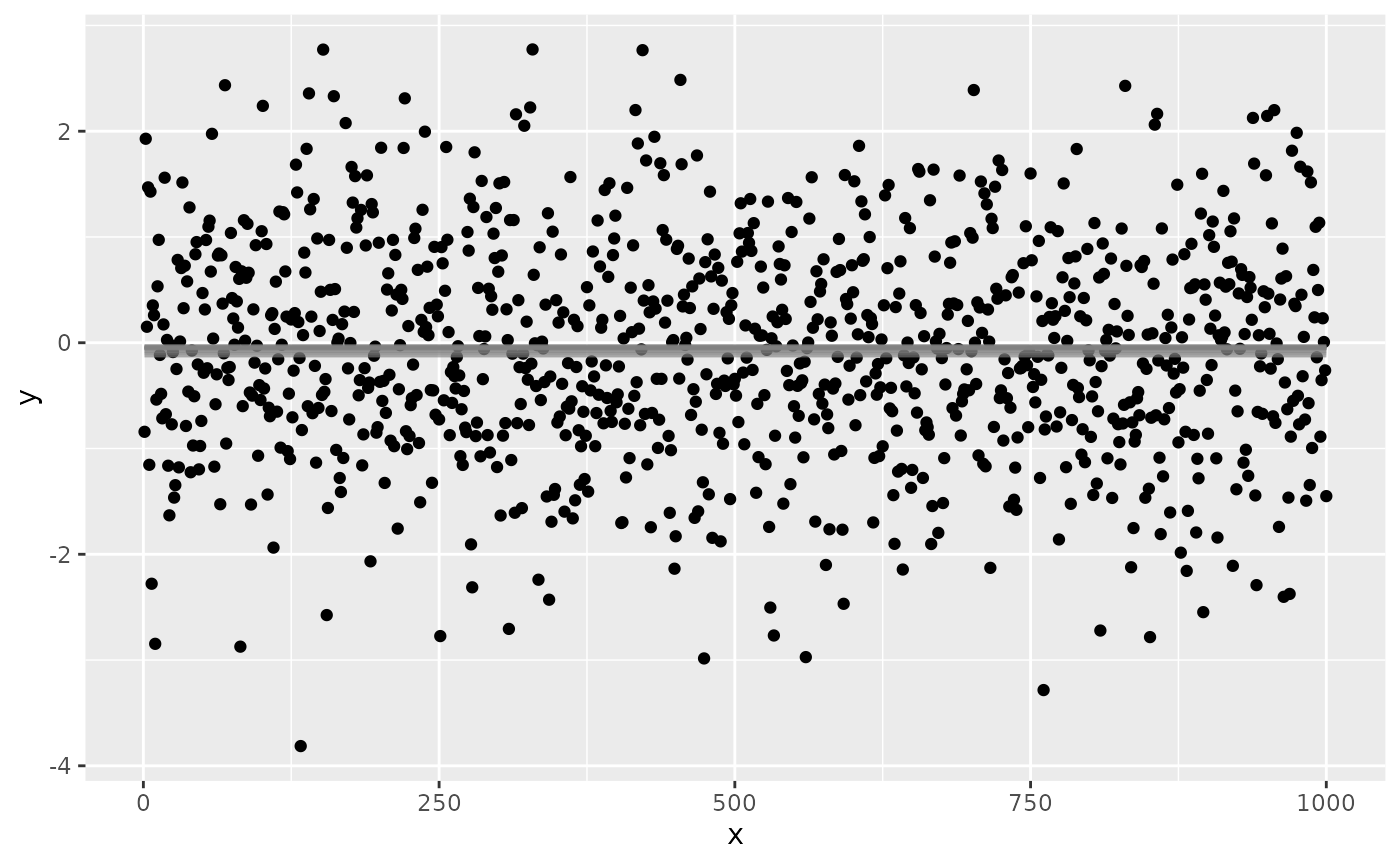
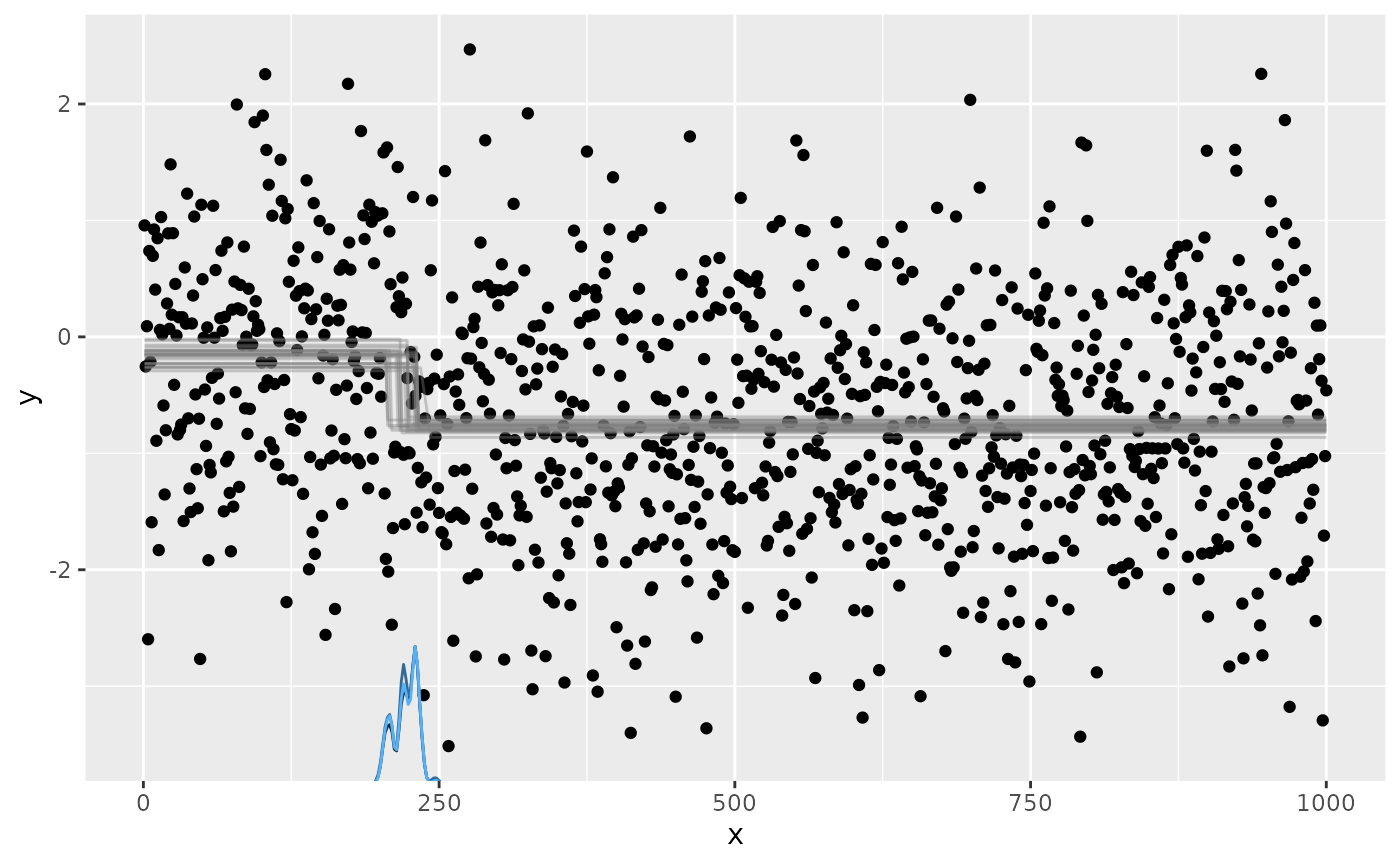
Built site for Rhpc: 0.0.1@

diff --git a/articles/breakpt-ex.html b/articles/breakpt-ex.html
@@ -131,6 +131,8 @@ kbd {
 <code class="sourceCode R"><span class="va">sim</span> <span class="op">=</span> <span class="fu">simulate_data</span><span class="op">(</span>bps<span class="op">=</span><span class="fl">1</span><span class="op">)</span>
 <span class="fu"><a href="https://rdrr.io/r/graphics/plot.default.html" class="external-link">plot</a></span><span class="op">(</span><span class="va">sim</span><span class="op">)</span></code></pre></div>
 <p><img src="breakpt-ex_files/figure-html/unnamed-chunk-5-1.png" width="700"></p>
+<div class="sourceCode" id="cb4"><pre class="downlit sourceCode r">
+<code class="sourceCode R"><span class="co"># dev.off()  # close the device to complete the plot</span></code></pre></div>
 <p>On Sulis, the plot will be saved as <code>Rplots.pdf</code>.</p>
 </div>
 <div class="section level2">
@@ -143,7 +145,7 @@ kbd {
 <li>Three segments, two breakpoints</li>
 </ul>
 <p>When then compare these models in terms of how well they fit the data, and return the model that fits best:</p>
-<div class="sourceCode" id="cb4"><pre class="downlit sourceCode r">
+<div class="sourceCode" id="cb5"><pre class="downlit sourceCode r">
 <code class="sourceCode R"><span class="kw"><a href="https://rdrr.io/r/base/library.html" class="external-link">library</a></span><span class="op">(</span><span class="va"><a href="https://lindeloev.github.io/mcp/" class="external-link">mcp</a></span><span class="op">)</span>
 
 <span class="va">run_mcp</span> <span class="op">=</span> <span class="kw">function</span><span class="op">(</span><span class="va">sim</span><span class="op">)</span> <span class="op">{</span>
@@ -159,7 +161,7 @@ kbd {
     <span class="va">fits</span><span class="op">[[</span><span class="va">best</span><span class="op">]</span><span class="op">]</span>
 <span class="op">}</span></code></pre></div>
 <p>The resulting model should look something like this:</p>
-<div class="sourceCode" id="cb5"><pre class="downlit sourceCode r">
+<div class="sourceCode" id="cb6"><pre class="downlit sourceCode r">
 <code class="sourceCode R"><span class="va">mod</span> <span class="op">=</span> <span class="fu">run_mcp</span><span class="op">(</span><span class="va">sim</span><span class="op">)</span>
 <span class="co">#&gt; Compiling model graph</span>
 <span class="co">#&gt;    Resolving undeclared variables</span>
@@ -170,7 +172,7 @@ kbd {
 <span class="co">#&gt;    Total graph size: 5019</span>
 <span class="co">#&gt; </span>
 <span class="co">#&gt; Initializing model</span>
-<span class="co">#&gt; Finished sampling in 17.7 seconds</span>
+<span class="co">#&gt; Finished sampling in 18.6 seconds</span>
 <span class="co">#&gt; Compiling model graph</span>
 <span class="co">#&gt;    Resolving undeclared variables</span>
 <span class="co">#&gt;    Allocating nodes</span>
@@ -180,7 +182,7 @@ kbd {
 <span class="co">#&gt;    Total graph size: 12020</span>
 <span class="co">#&gt; </span>
 <span class="co">#&gt; Initializing model</span>
-<span class="co">#&gt; Finished sampling in 70.6 seconds</span>
+<span class="co">#&gt; Finished sampling in 77 seconds</span>
 <span class="co">#&gt; Compiling model graph</span>
 <span class="co">#&gt;    Resolving undeclared variables</span>
 <span class="co">#&gt;    Allocating nodes</span>
@@ -190,12 +192,14 @@ kbd {
 <span class="co">#&gt;    Total graph size: 17028</span>
 <span class="co">#&gt; </span>
 <span class="co">#&gt; Initializing model</span>
-<span class="co">#&gt; Finished sampling in 137.6 seconds</span>
+<span class="co">#&gt; Finished sampling in 138.5 seconds</span>
 <span class="co">#&gt; Warning: Some Pareto k diagnostic values are too high. See help('pareto-k-diagnostic') for details.</span>
 
 <span class="co">#&gt; Warning: Some Pareto k diagnostic values are too high. See help('pareto-k-diagnostic') for details.</span>
 <span class="fu"><a href="https://lindeloev.github.io/mcp/reference/plot.mcpfit.html" class="external-link">plot</a></span><span class="op">(</span><span class="va">mod</span><span class="op">)</span></code></pre></div>
 <p><img src="breakpt-ex_files/figure-html/unnamed-chunk-7-1.png" width="700"></p>
+<div class="sourceCode" id="cb7"><pre class="downlit sourceCode r">
+<code class="sourceCode R"><span class="co"># dev.off()  # close the device to complete the plot</span></code></pre></div>
 <p>Here, we see the <code>x</code> and <code>y</code> coordinates of our observations as before, but in addition we see the traces of the intercepts (grey lines) and the probability density of the break point itself (blue line close to the bottom of the plot).</p>
 <div class="section level4">
 <h4 id="exercise">Exercise<a class="anchor" aria-label="anchor" href="#exercise"></a>
@@ -211,9 +215,9 @@ kbd {
 <details><summary>
 Solution
 </summary><p>Start the interactive job using:</p>
-<div class="sourceCode" id="cb6"><pre class="sourceCode sh"><code class="sourceCode bash"><span id="cb6-1"><a href="#cb6-1" aria-hidden="true" tabindex="-1"></a><span class="ex">srun</span> <span class="at">--account</span> su105 <span class="at">--ntasks</span><span class="op">=</span>1 <span class="at">--cpus-per-task</span><span class="op">=</span>5 <span class="at">--time</span> 6:00:00 <span class="at">--pty</span> <span class="va">$SHELL</span></span></code></pre></div>
+<div class="sourceCode" id="cb8"><pre class="sourceCode sh"><code class="sourceCode bash"><span id="cb8-1"><a href="#cb8-1" aria-hidden="true" tabindex="-1"></a><span class="ex">srun</span> <span class="at">--account</span> su105 <span class="at">--ntasks</span><span class="op">=</span>1 <span class="at">--cpus-per-task</span><span class="op">=</span>5 <span class="at">--time</span> 6:00:00 <span class="at">--pty</span> <span class="va">$SHELL</span></span></code></pre></div>
 <p>In <code>nvim</code> create the file <em>compute_breakpt.r</em>:</p>
-<div class="sourceCode" id="cb7"><pre class="downlit sourceCode r">
+<div class="sourceCode" id="cb9"><pre class="downlit sourceCode r">
 <code class="sourceCode R"><span class="kw"><a href="https://rdrr.io/r/base/library.html" class="external-link">library</a></span><span class="op">(</span><span class="va"><a href="https://lindeloev.github.io/mcp/" class="external-link">mcp</a></span><span class="op">)</span>
 <span class="va">simulate_data</span> <span class="op">=</span> <span class="kw">function</span><span class="op">(</span><span class="va">len</span><span class="op">=</span><span class="fl">1000</span>, <span class="va">bps</span><span class="op">=</span><span class="fu"><a href="https://rdrr.io/r/base/c.html" class="external-link">c</a></span><span class="op">(</span><span class="fl">0</span>,<span class="fl">1</span>,<span class="fl">2</span><span class="op">)</span><span class="op">)</span> <span class="op">{</span>
     <span class="va">sim</span> <span class="op">=</span> <span class="fu"><a href="https://rdrr.io/r/base/data.frame.html" class="external-link">data.frame</a></span><span class="op">(</span>x<span class="op">=</span><span class="fu"><a href="https://rdrr.io/r/base/seq.html" class="external-link">seq_len</a></span><span class="op">(</span><span class="va">len</span><span class="op">)</span>, y<span class="op">=</span><span class="fu"><a href="https://rdrr.io/r/stats/Normal.html" class="external-link">rnorm</a></span><span class="op">(</span><span class="va">len</span><span class="op">)</span><span class="op">)</span>
@@ -287,7 +291,7 @@ Solution
 <details><summary>
 Solution simulation
 </summary><p><em>sim_breakpt.r</em></p>
-<div class="sourceCode" id="cb8"><pre class="downlit sourceCode r">
+<div class="sourceCode" id="cb10"><pre class="downlit sourceCode r">
 <code class="sourceCode R"><span class="va">simulate_data</span> <span class="op">=</span> <span class="kw">function</span><span class="op">(</span><span class="va">len</span><span class="op">=</span><span class="fl">1000</span>, <span class="va">bps</span><span class="op">=</span><span class="fu"><a href="https://rdrr.io/r/base/c.html" class="external-link">c</a></span><span class="op">(</span><span class="fl">0</span>,<span class="fl">1</span>,<span class="fl">2</span><span class="op">)</span><span class="op">)</span> <span class="op">{</span>
     <span class="va">sim</span> <span class="op">=</span> <span class="fu"><a href="https://rdrr.io/r/base/data.frame.html" class="external-link">data.frame</a></span><span class="op">(</span>x<span class="op">=</span><span class="fu"><a href="https://rdrr.io/r/base/seq.html" class="external-link">seq_len</a></span><span class="op">(</span><span class="va">len</span><span class="op">)</span>, y<span class="op">=</span><span class="fu"><a href="https://rdrr.io/r/stats/Normal.html" class="external-link">rnorm</a></span><span class="op">(</span><span class="va">len</span><span class="op">)</span><span class="op">)</span>
     <span class="kw">for</span> <span class="op">(</span><span class="va">bp</span> <span class="kw">in</span> <span class="fu"><a href="https://rdrr.io/r/base/seq.html" class="external-link">seq_len</a></span><span class="op">(</span><span class="fu"><a href="https://rdrr.io/r/base/sample.html" class="external-link">sample</a></span><span class="op">(</span><span class="va">bps</span>, <span class="fl">1</span><span class="op">)</span><span class="op">)</span><span class="op">)</span> <span class="op">{</span>
@@ -302,17 +306,17 @@ Solution simulation
 </details><details><summary>
 Solution breakpoint inference
 </summary><p><em>submit_breakpt.sh</em></p>
-<div class="sourceCode" id="cb9"><pre class="sourceCode sh"><code class="sourceCode bash"><span id="cb9-1"><a href="#cb9-1" aria-hidden="true" tabindex="-1"></a><span class="co">#!/bin/sh</span></span>
-<span id="cb9-2"><a href="#cb9-2" aria-hidden="true" tabindex="-1"></a><span class="co">#SBATCH --account su105</span></span>
-<span id="cb9-3"><a href="#cb9-3" aria-hidden="true" tabindex="-1"></a><span class="co">#SBATCH --partition compute</span></span>
-<span id="cb9-4"><a href="#cb9-4" aria-hidden="true" tabindex="-1"></a><span class="co">#SBATCH --ntasks 10</span></span>
-<span id="cb9-5"><a href="#cb9-5" aria-hidden="true" tabindex="-1"></a><span class="co">#SBATCH --cpus-per-task 1</span></span>
-<span id="cb9-6"><a href="#cb9-6" aria-hidden="true" tabindex="-1"></a><span class="co">#SBATCH --mem 2048M</span></span>
-<span id="cb9-7"><a href="#cb9-7" aria-hidden="true" tabindex="-1"></a><span class="co">#SBATCH --time 8:00:00</span></span>
-<span id="cb9-8"><a href="#cb9-8" aria-hidden="true" tabindex="-1"></a></span>
-<span id="cb9-9"><a href="#cb9-9" aria-hidden="true" tabindex="-1"></a><span class="ex">srun</span> Rscript compute_breakpt_manual.r</span></code></pre></div>
+<div class="sourceCode" id="cb11"><pre class="sourceCode sh"><code class="sourceCode bash"><span id="cb11-1"><a href="#cb11-1" aria-hidden="true" tabindex="-1"></a><span class="co">#!/bin/sh</span></span>
+<span id="cb11-2"><a href="#cb11-2" aria-hidden="true" tabindex="-1"></a><span class="co">#SBATCH --account su105</span></span>
+<span id="cb11-3"><a href="#cb11-3" aria-hidden="true" tabindex="-1"></a><span class="co">#SBATCH --partition compute</span></span>
+<span id="cb11-4"><a href="#cb11-4" aria-hidden="true" tabindex="-1"></a><span class="co">#SBATCH --ntasks 10</span></span>
+<span id="cb11-5"><a href="#cb11-5" aria-hidden="true" tabindex="-1"></a><span class="co">#SBATCH --cpus-per-task 1</span></span>
+<span id="cb11-6"><a href="#cb11-6" aria-hidden="true" tabindex="-1"></a><span class="co">#SBATCH --mem 2048M</span></span>
+<span id="cb11-7"><a href="#cb11-7" aria-hidden="true" tabindex="-1"></a><span class="co">#SBATCH --time 8:00:00</span></span>
+<span id="cb11-8"><a href="#cb11-8" aria-hidden="true" tabindex="-1"></a></span>
+<span id="cb11-9"><a href="#cb11-9" aria-hidden="true" tabindex="-1"></a><span class="ex">srun</span> Rscript compute_breakpt_manual.r</span></code></pre></div>
 <p><em>compute_breakpt_manual.r</em></p>
-<div class="sourceCode" id="cb10"><pre class="downlit sourceCode r">
+<div class="sourceCode" id="cb12"><pre class="downlit sourceCode r">
 <code class="sourceCode R"><span class="kw"><a href="https://rdrr.io/r/base/library.html" class="external-link">library</a></span><span class="op">(</span><span class="va"><a href="https://lindeloev.github.io/mcp/" class="external-link">mcp</a></span><span class="op">)</span>
 
 <span class="va">run_mcp</span> <span class="op">=</span> <span class="kw">function</span><span class="op">(</span><span class="va">sim</span><span class="op">)</span> <span class="op">{</span>
@@ -352,7 +356,7 @@ Solution breakpoint inference
 </h4>
 <p>The <a href="https://uscbiostats.github.io/slurmR/" class="external-link"><code>slurmR</code></a> package is a lightweight (dependency-free) R package that allows users to interact with the scheduler.</p>
 <p>It can be used to create a cluster object on Slurm tasks analogous to <code><a href="https://rdrr.io/r/parallel/makeCluster.html" class="external-link">parallel::makePSOCKcluster</a></code>. We do <em>not need</em> a separate submission script, but should run it in an interactive job to not strain the login node. The command for this is <code>slurmR::makeSlurmCluster(ntasks)</code>, which can then be used with the <code>parLapply</code> or <code>parSapply</code> functions:</p>
-<div class="sourceCode" id="cb11"><pre class="downlit sourceCode r">
+<div class="sourceCode" id="cb13"><pre class="downlit sourceCode r">
 <code class="sourceCode R"><span class="co"># install.packages("slurmR") if you have not installed the package yet</span>
 <span class="kw"><a href="https://rdrr.io/r/base/library.html" class="external-link">library</a></span><span class="op">(</span><span class="va"><a href="https://github.com/USCbiostats/slurmR" class="external-link">slurmR</a></span><span class="op">)</span>
 
@@ -373,8 +377,8 @@ Solution breakpoint inference
 <h4 id="clustermq">clustermq<a class="anchor" aria-label="anchor" href="#clustermq"></a>
 </h4>
 <p>The <a href="https://mschubert.github.io/clustermq/" class="external-link"><code>clustermq</code></a> package provides an interface to multiple HPC schedulers (including Slurm) via the ZeroMQ socket library, available as a module:</p>
-<div class="sourceCode" id="cb12"><pre class="sourceCode sh"><code class="sourceCode bash"><span id="cb12-1"><a href="#cb12-1" aria-hidden="true" tabindex="-1"></a><span class="ex">module</span> load GCCcore/10.2.0 ZeroMQ/4.3.3</span></code></pre></div>
-<div class="sourceCode" id="cb13"><pre class="downlit sourceCode r">
+<div class="sourceCode" id="cb14"><pre class="sourceCode sh"><code class="sourceCode bash"><span id="cb14-1"><a href="#cb14-1" aria-hidden="true" tabindex="-1"></a><span class="ex">module</span> load GCCcore/10.2.0 ZeroMQ/4.3.3</span></code></pre></div>
+<div class="sourceCode" id="cb15"><pre class="downlit sourceCode r">
 <code class="sourceCode R"><span class="co"># install.packges("clustermq") if you have not installed the package yet</span>
 <span class="kw"><a href="https://rdrr.io/r/base/library.html" class="external-link">library</a></span><span class="op">(</span><span class="va"><a href="https://mschubert.github.io/clustermq/" class="external-link">clustermq</a></span><span class="op">)</span>
 
@@ -386,18 +390,18 @@ Solution breakpoint inference
 <del>Use <code>srun</code> with multiple tasks per index in the job array</del> this is not actually working (yet)</li>
 </ul>
 <p>To address both points, we can create a new file <code>cmq_slurm.tmpl</code> with the following contents:</p>
-<div class="sourceCode" id="cb14"><pre class="sourceCode sh"><code class="sourceCode bash"><span id="cb14-1"><a href="#cb14-1" aria-hidden="true" tabindex="-1"></a><span class="co">#!/bin/sh</span></span>
-<span id="cb14-2"><a href="#cb14-2" aria-hidden="true" tabindex="-1"></a><span class="co">#SBATCH --account={{ account | su105 }}</span></span>
-<span id="cb14-3"><a href="#cb14-3" aria-hidden="true" tabindex="-1"></a><span class="co">#SBATCH --job-name={{ job_name }}</span></span>
-<span id="cb14-4"><a href="#cb14-4" aria-hidden="true" tabindex="-1"></a><span class="co">#SBATCH --array=1-{{ n_jobs }}</span></span>
-<span id="cb14-5"><a href="#cb14-5" aria-hidden="true" tabindex="-1"></a><span class="co">#SBATCH --mem-per-cpu={{ memory | 1024M }}</span></span>
-<span id="cb14-6"><a href="#cb14-6" aria-hidden="true" tabindex="-1"></a><span class="co">#SBATCH --cpus-per-task={{ cores | 1 }}</span></span>
-<span id="cb14-7"><a href="#cb14-7" aria-hidden="true" tabindex="-1"></a></span>
-<span id="cb14-8"><a href="#cb14-8" aria-hidden="true" tabindex="-1"></a><span class="ex">module</span> load rjags/4-10-R-4.1.2 <span class="co"># this we will need for our example</span></span>
-<span id="cb14-9"><a href="#cb14-9" aria-hidden="true" tabindex="-1"></a></span>
-<span id="cb14-10"><a href="#cb14-10" aria-hidden="true" tabindex="-1"></a><span class="va">CMQ_AUTH</span><span class="op">=</span>{{ <span class="ex">auth</span> }} R <span class="at">--no-save</span> <span class="at">--no-restore</span> <span class="at">-e</span> <span class="st">'clustermq:::worker("{{ master }}")'</span></span></code></pre></div>
+<div class="sourceCode" id="cb16"><pre class="sourceCode sh"><code class="sourceCode bash"><span id="cb16-1"><a href="#cb16-1" aria-hidden="true" tabindex="-1"></a><span class="co">#!/bin/sh</span></span>
+<span id="cb16-2"><a href="#cb16-2" aria-hidden="true" tabindex="-1"></a><span class="co">#SBATCH --account={{ account | su105 }}</span></span>
+<span id="cb16-3"><a href="#cb16-3" aria-hidden="true" tabindex="-1"></a><span class="co">#SBATCH --job-name={{ job_name }}</span></span>
+<span id="cb16-4"><a href="#cb16-4" aria-hidden="true" tabindex="-1"></a><span class="co">#SBATCH --array=1-{{ n_jobs }}</span></span>
+<span id="cb16-5"><a href="#cb16-5" aria-hidden="true" tabindex="-1"></a><span class="co">#SBATCH --mem-per-cpu={{ memory | 1024M }}</span></span>
+<span id="cb16-6"><a href="#cb16-6" aria-hidden="true" tabindex="-1"></a><span class="co">#SBATCH --cpus-per-task={{ cores | 1 }}</span></span>
+<span id="cb16-7"><a href="#cb16-7" aria-hidden="true" tabindex="-1"></a></span>
+<span id="cb16-8"><a href="#cb16-8" aria-hidden="true" tabindex="-1"></a><span class="ex">module</span> load rjags/4-10-R-4.1.2 <span class="co"># this we will need for our example</span></span>
+<span id="cb16-9"><a href="#cb16-9" aria-hidden="true" tabindex="-1"></a></span>
+<span id="cb16-10"><a href="#cb16-10" aria-hidden="true" tabindex="-1"></a><span class="va">CMQ_AUTH</span><span class="op">=</span>{{ <span class="ex">auth</span> }} R <span class="at">--no-save</span> <span class="at">--no-restore</span> <span class="at">-e</span> <span class="st">'clustermq:::worker("{{ master }}")'</span></span></code></pre></div>
 <p>We can then use this newly created template by:</p>
-<div class="sourceCode" id="cb15"><pre class="downlit sourceCode r">
+<div class="sourceCode" id="cb17"><pre class="downlit sourceCode r">
 <code class="sourceCode R"><span class="fu"><a href="https://rdrr.io/r/base/options.html" class="external-link">options</a></span><span class="op">(</span>clustermq.host <span class="op">=</span> <span class="st">"ib0"</span>, <span class="co"># faster network</span>
         clustermq.template <span class="op">=</span> <span class="st">"/path/to/cmq_slurm.tmpl"</span><span class="op">)</span></code></pre></div>
 <p>We can either run these lines in an active R session, or add them to <code>~/.Rprofile</code> to set automatically each time R is started.</p>
@@ -419,9 +423,9 @@ Solution breakpoint inference
 <details><summary>
 Solution <code>slurmR</code>
 </summary><p>If not in an interactive job yet, start it using</p>
-<div class="sourceCode" id="cb16"><pre class="sourceCode sh"><code class="sourceCode bash"><span id="cb16-1"><a href="#cb16-1" aria-hidden="true" tabindex="-1"></a><span class="ex">srun</span> <span class="at">--account</span> su105 <span class="at">--ntasks</span><span class="op">=</span>1 <span class="at">--cpus-per-task</span><span class="op">=</span>1 <span class="at">--time</span> 6:00:00 <span class="at">--pty</span> <span class="va">$SHELL</span></span></code></pre></div>
+<div class="sourceCode" id="cb18"><pre class="sourceCode sh"><code class="sourceCode bash"><span id="cb18-1"><a href="#cb18-1" aria-hidden="true" tabindex="-1"></a><span class="ex">srun</span> <span class="at">--account</span> su105 <span class="at">--ntasks</span><span class="op">=</span>1 <span class="at">--cpus-per-task</span><span class="op">=</span>1 <span class="at">--time</span> 6:00:00 <span class="at">--pty</span> <span class="va">$SHELL</span></span></code></pre></div>
 <p>In <code>nvim</code> create the file <em>compute_breakpt_slurmR.r</em>:</p>
-<div class="sourceCode" id="cb17"><pre class="downlit sourceCode r">
+<div class="sourceCode" id="cb19"><pre class="downlit sourceCode r">
 <code class="sourceCode R"><span class="kw"><a href="https://rdrr.io/r/base/library.html" class="external-link">library</a></span><span class="op">(</span><span class="va"><a href="https://github.com/USCbiostats/slurmR" class="external-link">slurmR</a></span><span class="op">)</span>
 
 <span class="va">run_mcp</span> <span class="op">=</span> <span class="kw">function</span><span class="op">(</span><span class="va">sim</span><span class="op">)</span> <span class="op">{</span>
@@ -448,9 +452,9 @@ Solution <code>slurmR</code>
 </details><details><summary>
 Solution <code>clustermq</code>
 </summary><p>If not in an interactive job yet, start it using</p>
-<div class="sourceCode" id="cb18"><pre class="sourceCode sh"><code class="sourceCode bash"><span id="cb18-1"><a href="#cb18-1" aria-hidden="true" tabindex="-1"></a><span class="ex">srun</span> <span class="at">--account</span> su105 <span class="at">--ntasks</span><span class="op">=</span>1 <span class="at">--cpus-per-task</span><span class="op">=</span>1 <span class="at">--time</span> 6:00:00 <span class="at">--pty</span> <span class="va">$SHELL</span></span></code></pre></div>
+<div class="sourceCode" id="cb20"><pre class="sourceCode sh"><code class="sourceCode bash"><span id="cb20-1"><a href="#cb20-1" aria-hidden="true" tabindex="-1"></a><span class="ex">srun</span> <span class="at">--account</span> su105 <span class="at">--ntasks</span><span class="op">=</span>1 <span class="at">--cpus-per-task</span><span class="op">=</span>1 <span class="at">--time</span> 6:00:00 <span class="at">--pty</span> <span class="va">$SHELL</span></span></code></pre></div>
 <p>In <code>nvim</code> create the file <em>compute_breakpt_clustermq.r</em>:</p>
-<div class="sourceCode" id="cb19"><pre class="downlit sourceCode r">
+<div class="sourceCode" id="cb21"><pre class="downlit sourceCode r">
 <code class="sourceCode R"><span class="kw"><a href="https://rdrr.io/r/base/library.html" class="external-link">library</a></span><span class="op">(</span><span class="va"><a href="https://mschubert.github.io/clustermq/" class="external-link">clustermq</a></span><span class="op">)</span>
 
 <span class="va">run_mcp</span> <span class="op">=</span> <span class="kw">function</span><span class="op">(</span><span class="va">sim</span><span class="op">)</span> <span class="op">{</span>

diff --git a/articles/workflows.html b/articles/workflows.html
@@ -118,7 +118,7 @@ kbd {
 <div class="sourceCode" id="cb1"><pre class="sourceCode sh"><code class="sourceCode bash"><span id="cb1-1"><a href="#cb1-1" aria-hidden="true" tabindex="-1"></a><span class="co">#!/bin/sh</span></span>
 <span id="cb1-2"><a href="#cb1-2" aria-hidden="true" tabindex="-1"></a><span class="co">#SBATCH commands go here</span></span>
 <span id="cb1-3"><a href="#cb1-3" aria-hidden="true" tabindex="-1"></a></span>
-<span id="cb1-4"><a href="#cb1-4" aria-hidden="true" tabindex="-1"></a><span class="ex">RDS</span> = bp1.rds bp2.rds bp3.rds ...</span>
+<span id="cb1-4"><a href="#cb1-4" aria-hidden="true" tabindex="-1"></a><span class="va">RDS</span><span class="op">=</span><span class="st">"bp1.rds bp2.rds bp3.rds ..."</span></span>
 <span id="cb1-5"><a href="#cb1-5" aria-hidden="true" tabindex="-1"></a></span>
 <span id="cb1-6"><a href="#cb1-6" aria-hidden="true" tabindex="-1"></a><span class="cf">for</span> FILE <span class="kw">in</span> <span class="va">$RDS</span><span class="kw">;</span> <span class="cf">do</span></span>
 <span id="cb1-7"><a href="#cb1-7" aria-hidden="true" tabindex="-1"></a>    <span class="kw">(</span> <span class="ex">srun</span> Rscript compute_breakpt.r <span class="va">$FILE</span> <span class="kw">&amp;&amp;</span> <span class="ex">Rscript</span> plot.r <span class="va">$FILE</span> <span class="kw">)</span> <span class="kw">&amp;</span></span>

diff --git a/articles/quickstart.html b/articles/quickstart.html
@@ -316,7 +316,7 @@ kbd {
 <div class="sourceCode" id="cb23"><pre class="downlit sourceCode r">
 <code class="sourceCode R"><span class="fu"><a href="https://rdrr.io/r/base/system.time.html" class="external-link">system.time</a></span><span class="op">(</span><span class="op">{</span> <span class="fu">parallel</span><span class="fu">::</span><span class="fu"><a href="https://rdrr.io/r/parallel/mclapply.html" class="external-link">mclapply</a></span><span class="op">(</span><span class="fl">1</span><span class="op">:</span><span class="fl">10</span>, <span class="va">fsleep</span><span class="op">)</span> <span class="op">}</span><span class="op">)</span>
 <span class="co">#&gt;    user  system elapsed </span>
-<span class="co">#&gt;   0.013   0.000   5.020</span></code></pre></div>
+<span class="co">#&gt;   0.004   0.009   5.019</span></code></pre></div>
 <p>However, there are also other possibilities, e.g. the <a href="https://cran.r-project.org/package=foreach" class="external-link"><code>foreach</code></a> package that enables parallel processing using the <code>%dopar%</code> command, or the <a href="https://cran.r-project.org/package=future" class="external-link"><code>future</code></a> package by using <code>plan(multisession)</code>.</p>
 <div class="section level4">
 <h4 id="exercise-1">Exercise<a class="anchor" aria-label="anchor" href="#exercise-1"></a>
